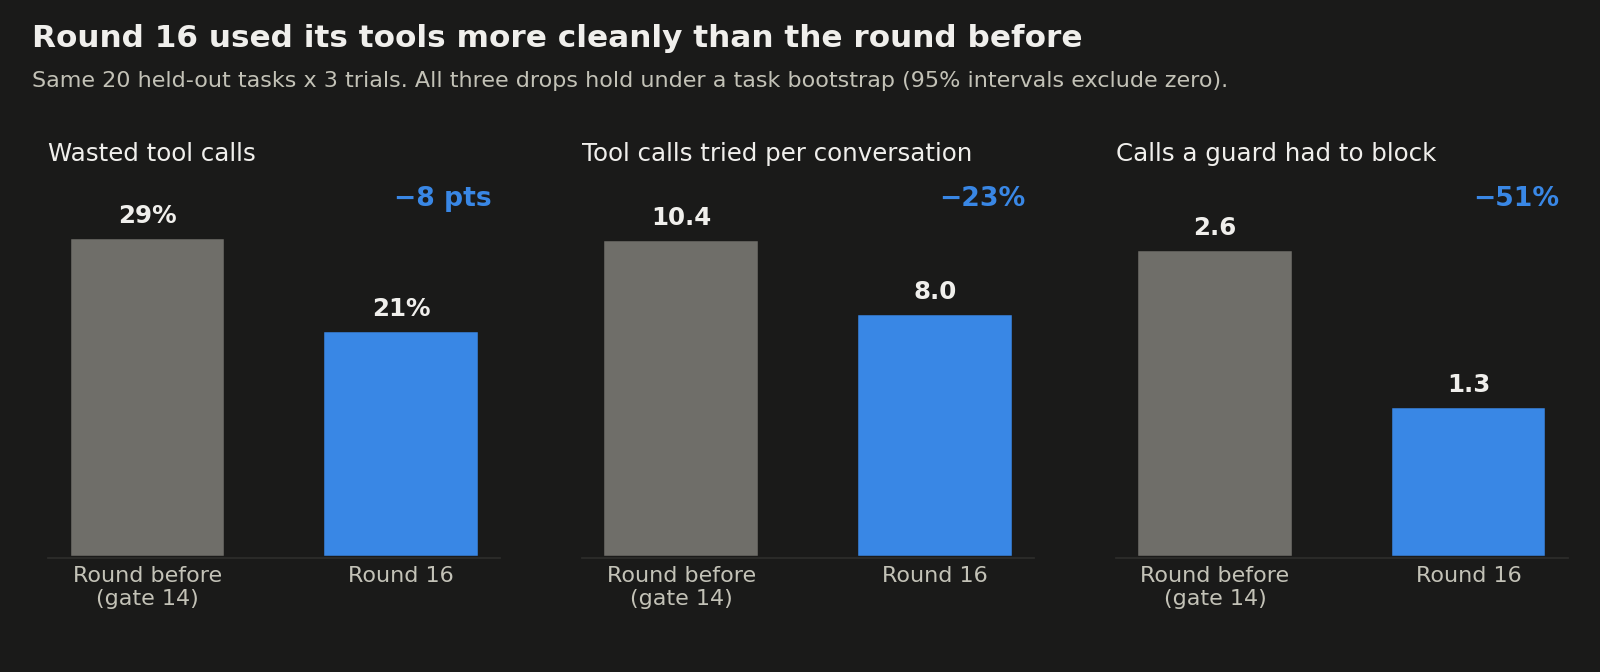
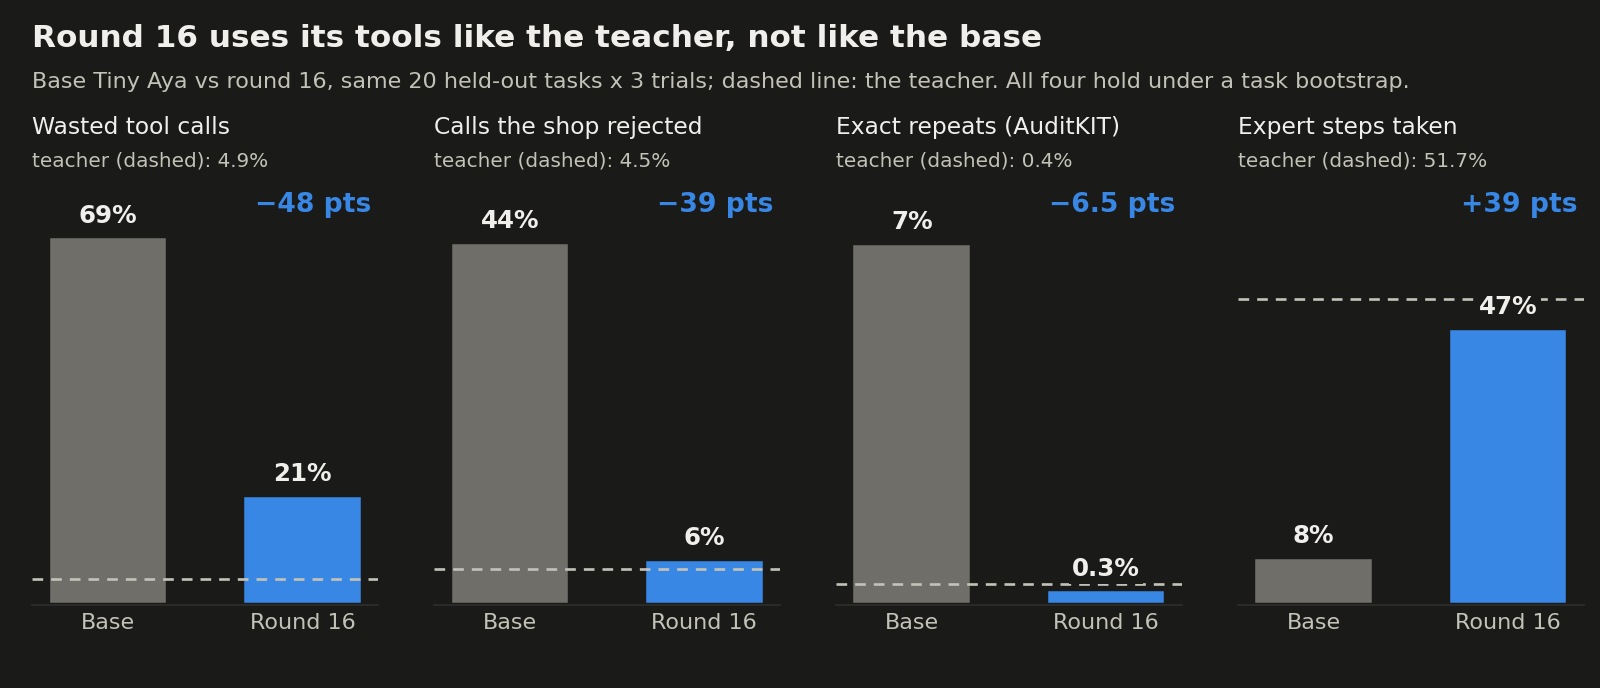
Round 16 efficiency: compare with the base, teacher as reference

diff --git a/docs/space/index.html b/docs/space/index.html
@@ -76,7 +76,7 @@ footer { margin-top: 64px; padding-top: 20px; border-top: 1px solid var(--line);
     <div class="card hero"><b>$0.015</b><span>per resolved ticket</span><small>2.5× cheaper than the teacher API</small></div>
     <div class="card"><b>3.35B</b><span>parameters, one 24 GB GPU</span><small>tickets solved 10% → 15%</small></div>
     <div class="card"><b>40 → 0</b><span>invented order ids</span><small>per 60 conversations</small></div>
-    <div class="card"><b>69% → 21%</b><span>wasted tool calls</span><small>round 16 alone: −8 pts, guard blocks halved</small></div>
+    <div class="card"><b>69% → 21%</b><span>wasted tool calls</span><small>base → round 16; teacher 5%</small></div>
     <div class="card"><b>0 people</b><span>from launch to promotion</span><small>2 h 24 min, $3.89</small></div>
     <div class="card"><b>8 / 8</b><span>gate checks passed</span><small>after 11 refusals</small></div>
   </div>
@@ -134,19 +134,20 @@ footer { margin-top: 64px; padding-top: 20px; border-top: 1px solid var(--line);
     <tr><td>BFCL, general tool calling</td><td>45</td><td><strong>73</strong></td></tr>
   </table></div>
 
-  <h2>Round 16's biggest jump: cleaner tool use</h2>
-  <p>Pass rates on 20 tasks are noisy, so we also measure how the agent works. tau2 stores the calls an expert makes for every task; we compare each conversation with that path and count the wasted calls: repeats with nothing changed in between, calls the shop rejected, and calls our guards had to block.</p>
+  <h2>Round 16's biggest jump: it uses tools like the teacher</h2>
+  <p>Pass rates on 20 tasks are noisy, so we also measure how the agent works. tau2 stores the calls an expert makes for every task; we compare each conversation with that path and count the wasted calls (repeats with nothing changed in between, calls the shop rejected, calls our guards had to block) and the expert's steps the agent also took.</p>
   <figure>
     <picture>
       <source media="(prefers-color-scheme: dark)" srcset="img/round16-jump-dark.png">
-      <img src="img/round16-jump-light.png" alt="Round 16 against the round before (gate 14): wasted tool calls 29% to 21%, tool calls tried per conversation 10.4 to 8.0, calls a guard had to block 2.6 to 1.3.">
+      <img src="img/round16-jump-light.png" alt="Base Tiny Aya vs round 16, teacher as reference: wasted tool calls 69% to 21% (teacher 4.9%), calls the shop rejected 44% to 6% (teacher 4.5%), exact repeats by AuditKIT 6.8% to 0.3% (teacher 0.4%), expert steps taken 8% to 47% (teacher 52%).">
     </picture>
   </figure>
   <ul>
-    <li><b>Against the round right before it</b>, on the same tasks: wasted calls −8 points, tool calls tried −23%, guard blocks halved. All three hold under a task bootstrap (95% intervals exclude zero).</li>
-    <li><b>The guards' lessons moved into the weights.</b> Round 16 trained on the teacher's fix for exactly the turns our guards had blocked, and now needs a guard half as often as the round before and a third as often as round 7.</li>
-    <li><b>AuditKIT agrees.</b> Its own <code>RedundantToolCalls</code> puts round 16's exact repeats at 0.3% of calls, level with the teacher (0.4%) and down from 6.8% for the base.</li>
-    <li><b>Not yet:</b> conversations are no shorter, about twice the teacher's length. That is the next target.</li>
+    <li><b>The base wastes most of what it does:</b> 69% of its tool calls, mostly calls the shop rejects, and it takes only 8% of the expert's steps. It looks frugal only because it gives up early.</li>
+    <li><b>Round 16 behaves like the teacher:</b> rejected calls 6% (teacher 4.5%), exact repeats 0.3% (teacher 0.4%), expert steps taken 47% (teacher 52%). All four changes from the base hold under a task bootstrap.</li>
+    <li><b>AuditKIT agrees:</b> the exact-repeat numbers are its own <code>RedundantToolCalls</code>, not our code.</li>
+    <li><b>Why:</b> round 16 trained on the teacher's fix for exactly the turns where the student went wrong, including every call our guards had blocked.</li>
+    <li><b>Not yet:</b> a fifth of its calls are still wasted (teacher 5%), and its conversations run about twice as long as the teacher's. That is the next target.</li>
   </ul>
   <p>Across every round, from the base model to round 16, wasted calls fell from 69% to 21% (the teacher wastes 5%):</p>
   <figure>

diff --git a/docs/make_charts.py b/docs/make_charts.py
@@ -36,7 +36,8 @@ def bars(ax, t, labels, values, highlight, fmt):
     for rect, value in zip(rects, values):
         ax.annotate(fmt(value), (rect.get_x() + rect.get_width() / 2, rect.get_height()),
                     xytext=(0, 4), textcoords="offset points", ha="center", va="bottom",
-                    fontsize=11, color=t["text"], fontweight="bold")
+                    fontsize=11, color=t["text"], fontweight="bold",
+                    bbox={"facecolor": t["surface"], "edgecolor": "none", "pad": 1.5})
 
 
 def title(fig, t, text, sub):
@@ -112,24 +113,28 @@ def gates(t):
 
 
 def round16_jump(t):
-    # scripts/trajectory_efficiency.py, gate 14 (round 13 + guards, the round before) vs gate 16, same 20 tasks x 3.
-    # 95% task-bootstrap intervals of the change: wasted -14 to -3 pts, attempts -4.1 to -0.8, blocks -1.9 to -0.7.
-    panels = [("Wasted tool calls", [29.3, 20.8], lambda v: f"{v:.0f}%", 35, "−8 pts"),
-              ("Tool calls tried per conversation", [10.4, 8.0], lambda v: f"{v:.1f}", 12.5, "−23%"),
-              ("Calls a guard had to block", [2.58, 1.27], lambda v: f"{v:.1f}", 3.2, "−51%")]
-    fig, axes = plt.subplots(1, 3, figsize=(10, 4.2), facecolor=t["surface"])
-    for ax, (label, values, fmt, top, change) in zip(axes, panels):
+    # scripts/trajectory_efficiency.py, gate 16: base vs round 16, same 20 held-out tasks x 3; teacher = its ceiling run.
+    # 95% task-bootstrap intervals of the change: wasted -56 to -38 pts, failed -55 to -27, repeated -11.9 to -2.0,
+    # expert steps taken +24 to +53.
+    panels = [("Wasted tool calls", [69.2, 20.8], 4.9, 80, "−48 pts"),
+              ("Calls the shop rejected", [44.3, 5.7], 4.5, 52, "−39 pts"),
+              ("Exact repeats (AuditKIT)", [6.8, 0.3], 0.4, 8, "−6.5 pts"),
+              ("Expert steps taken", [8.2, 46.8], 51.7, 72, "+39 pts")]
+    fig, axes = plt.subplots(1, 4, figsize=(10, 4.3), facecolor=t["surface"])
+    for ax, (label, values, teacher, top, change) in zip(axes, panels):
         style(ax, t)
-        bars(ax, t, ["Round before\n(gate 14)", "Round 16"], values, {1}, fmt)
+        bars(ax, t, ["Base", "Round 16"], values, {1}, lambda v: f"{v:.0f}%" if v >= 1 else f"{v:.1f}%")
+        ax.axhline(teacher, color=t["muted"], linewidth=1.2, linestyle=(0, (4, 3)))
         ax.set_ylim(0, top)
         ax.set_yticks([])
         ax.yaxis.grid(False)
-        ax.set_title(label, loc="left", fontsize=11, color=t["text"])
+        ax.set_title(label, loc="left", fontsize=10.5, color=t["text"], pad=20)
+        ax.text(0, 1.03, f"teacher (dashed): {teacher:g}%", transform=ax.transAxes, fontsize=9, color=t["muted"])
         ax.text(0.98, 0.97, change, transform=ax.transAxes, ha="right", va="top",
                 fontsize=12, fontweight="bold", color=t["accent"])
-    title(fig, t, "Round 16 used its tools more cleanly than the round before",
-          "Same 20 held-out tasks x 3 trials. All three drops hold under a task bootstrap (95% intervals exclude zero).")
-    fig.subplots_adjust(left=0.03, right=0.98, top=0.74, bottom=0.17, wspace=0.18)
+    title(fig, t, "Round 16 uses its tools like the teacher, not like the base",
+          "Base Tiny Aya vs round 16, same 20 held-out tasks x 3 trials; dashed line: the teacher. All four hold under a task bootstrap.")
+    fig.subplots_adjust(left=0.02, right=0.99, top=0.74, bottom=0.12, wspace=0.16)
     return fig
 
 

diff --git a/WRITEUP.md b/WRITEUP.md
@@ -13,7 +13,7 @@
 <td align="center"><h2>40 → 0</h2>invented order ids<br><sub>per 60 conversations</sub></td>
 </tr>
 <tr>
-<td align="center"><h2>69% → 21%</h2>wasted tool calls<br><sub>round 16 alone: −8 pts, guard blocks halved</sub></td>
+<td align="center"><h2>69% → 21%</h2>wasted tool calls<br><sub>base → round 16; teacher 5%</sub></td>
 <td align="center"><h2>0 people</h2>between launch and promotion<br><sub>2 h 24 min, $3.89</sub></td>
 <td align="center"><h2>8 / 8</h2>gate checks passed<br><sub>after 11 refusals</sub></td>
 </tr>
@@ -59,28 +59,30 @@ The customer simulator and judge is gpt-oss-120b, identical in every gate.
 | BFCL v3, general tool calling (no forgetting) | 45 | **73** |
 | Still failing: skipped a policy step / went in circles | 25 / 8 | 31 / 12 |
 
-### 4. Round 16's biggest jump: cleaner tool use
+### 4. Round 16's biggest jump: it uses tools like the teacher
 
-Pass rates on 20 tasks are noisy, so we also measure *how* the agent works. tau2 stores the calls an expert makes for every task; `scripts/trajectory_efficiency.py` compares each conversation with that path and counts **wasted calls**: repeats of an earlier call with nothing changed in between, calls the shop rejected, and calls our guards had to block before they ran.
+Pass rates on 20 tasks are noisy, so we also measure *how* the agent works. tau2 stores the calls an expert makes for every task; `scripts/trajectory_efficiency.py` compares each conversation with that path and counts **wasted calls** (repeats of an earlier call with nothing changed in between, calls the shop rejected, and calls our guards had to block) and **expert steps taken** (the expert's calls the agent also made, same tool and arguments).
 
 <picture>
   <source media="(prefers-color-scheme: dark)" srcset="docs/img/round16-jump-dark.png">
-  <img src="docs/img/round16-jump-light.png" alt="Round 16 against the round before (gate 14): wasted tool calls 29% to 21%, tool calls tried per conversation 10.4 to 8.0, calls a guard had to block 2.6 to 1.3." width="100%">
+  <img src="docs/img/round16-jump-light.png" alt="Base Tiny Aya vs round 16, teacher as reference: wasted tool calls 69% to 21% (teacher 4.9%), calls the shop rejected 44% to 6% (teacher 4.5%), exact repeats by AuditKIT 6.8% to 0.3% (teacher 0.4%), expert steps taken 8% to 47% (teacher 52%)." width="100%">
 </picture>
 
-| Same 20 held-out tasks × 3 | Base | Round before (gate 14) | **Round 16** | Teacher |
+| Same 20 held-out tasks × 3 | Base | **Round 16** | Teacher | Change, base → round 16 (95% interval) |
 |---|---|---|---|---|
-| Wasted tool calls | 69% | 29% | **21%** | 5% |
-| Tool calls tried per conversation | 4.0 | 10.4 | **8.0** | 4.5 |
-| Calls a guard had to block, per conversation | 0 | 2.6 | **1.3** | 0 |
-| Model calls per conversation (what serving costs) | 10.5 | 18.5 | **16.8** | 9.8 |
-| AuditKIT `RedundantToolCalls` (independent check) | 6.8% | 0.4% | **0.3%** | 0.4% |
+| Wasted tool calls | 69% | **21%** | 5% | −48 points (−56 to −38) |
+| Calls the shop rejected | 44% | **6%** | 4.5% | −39 points (−55 to −27) |
+| Exact repeats, AuditKIT `RedundantToolCalls` | 6.8% | **0.3%** | 0.4% | −6.5 points (−11.9 to −2.0) |
+| Expert steps taken | 8% | **47%** | 52% | +39 points (+24 to +53) |
+| Calls that were on the expert's path | 15% | **36%** | 52% | +22 points (+11 to +33) |
 
-- **Round 16 against the round right before it, all on the same tasks** (task bootstrap, 95% intervals): wasted calls −8 points (−14 to −3), tool calls tried −2.4 per conversation (−4.1 to −0.8), guard blocks halved (−1.9 to −0.7).
-- **Against the base: wasted calls 69% → 21%** (−48 points, 38 to 56). The base looks frugal only because it gives up: 44% of its calls fail.
-- **The guards' lessons moved into the weights.** Round 16 trained on the teacher's fix for exactly the turns our guards had blocked. It now needs a guard half as often as the round before, and a third as often as round 7 (4.3 blocks per conversation).
-- **AuditKIT agrees.** Its own `RedundantToolCalls` puts round 16's exact repeats at 0.3% of calls, level with the teacher (0.4%) and down from 6.8% for the base.
-- **What did not change:** conversations are no shorter (about 31 messages and 74K prompt tokens, twice the teacher's), and AuditKIT's `AgentLoopDetection` finds a loop in half the conversations, as before (teacher: 1 in 10). Round 16 uses its tools more cleanly; it still talks longer than an expert. That is the next target.
+Intervals are a task bootstrap (5,000 resamples of the 20 tasks).
+
+- **The base wastes most of what it does.** 69% of its tool calls are wasted, mostly because 44% of them fail, and it takes only 8% of the steps an expert would. It looks frugal only because it gives up early.
+- **Round 16 behaves like the teacher on three of the four measures.** Its rejected calls (6% vs 4.5%) and exact repeats (0.3% vs 0.4%) are at the teacher's level, and it takes nearly as many of the expert's steps (47% vs 52%).
+- **AuditKIT agrees.** The exact-repeat row is AuditKIT's own `RedundantToolCalls`, not our code, and it shows the same jump.
+- **Why:** round 16 trained on the teacher's fix for exactly the turns where the student had gone wrong, including every call our guards had blocked, so the guards' lessons moved into the weights.
+- **What is still behind the teacher:** a fifth of round 16's calls are still wasted (teacher 5%), its conversations run about twice as long (31 messages vs 20), and AuditKIT's `AgentLoopDetection` flags a loop in half of them (base: the same; teacher: 1 in 10). That is the next target.
 
 ### 5. Why a business would care
 
@@ -424,7 +426,7 @@ What it shows:
 - **The guards' lessons moved into the weights.** Round 7 needed a guard to block 4.3 calls per conversation; round 16, trained on the teacher's corrections of exactly those turns, needs 1.3. This is the self-healing loop working at the level of single turns, and it fits overflowing runs falling from 13 (round 13) to 4.
 - **Still twice the expert's calls and five times its context per solved task** (490K vs 100K prompt tokens). That is the gap to close next: fewer calls is cheaper, faster and leaves room in the 8K window.
 
-Round 16 against the round right before it, with AuditKIT's own trajectory metrics as a cross-check, is in section 4 at the top. The metric is evaluation only: it never feeds training or the gate. Making "wasted share must not rise" a ninth gate check is a one-line config change we did not make mid-hackathon, since the thresholds were frozen on 2026-11-11.
+Round 16 against the base, with AuditKIT's own trajectory metrics as a cross-check, is in section 4 at the top. The metric is evaluation only: it never feeds training or the gate. Making "wasted share must not rise" a ninth gate check is a one-line config change we did not make mid-hackathon, since the thresholds were frozen on 2026-11-11.
 
 **Sample (gate 13, task 9, trial 2; this run passed).** The customer asked to exchange a desk lamp. The adapter wrote the exchange before the customer had said yes:
 

diff --git a/docs/blog.md b/docs/blog.md
@@ -60,19 +60,15 @@ Round 16 against the base, 60 conversations each:
 | BFCL general tool calling | 45 | **73** |
 | Tickets resolved end to end | 10% | **15%** |
 
-## Round 16's biggest jump: cleaner tool use
+## Round 16's biggest jump: it uses tools like the teacher
 
-Pass rates on 20 tasks are noisy, so we added a metric that looks inside each conversation. tau2 stores the calls an expert agent makes for every task. We compare each conversation with that path and count the wasted calls: repeats of an earlier call with nothing changed in between, calls the shop rejected, and calls our runtime guards had to block before they ran.
+Pass rates on 20 tasks are noisy, so we added a metric that looks inside each conversation. tau2 stores the calls an expert agent makes for every task. We compare each conversation with that path and count the wasted calls (repeats of an earlier call with nothing changed in between, calls the shop rejected, and calls our runtime guards had to block) and the expert's steps the agent also took.
 
-![Round 16 against the round before](img/round16-jump-light.png)
+![Base vs round 16, with the teacher as reference](img/round16-jump-light.png)
 
-Against the round right before it, on the same tasks, round 16 cut wasted calls by 8 points (29% → 21%), tried 23% fewer tool calls per conversation, and needed a guard half as often. All three hold under a task bootstrap. The reason is the most satisfying result of the project: round 16 trained on the teacher's fix for exactly the turns our guards had blocked, so the guards' lessons moved into the weights.
+The base wastes 69% of its tool calls, mostly calls the shop rejects, and takes only 8% of the steps an expert would; it looks frugal only because it gives up early. Round 16 wastes 21%, and on three measures it is at the teacher's level: rejected calls 6% (teacher 4.5%), exact repeats 0.3% (teacher 0.4%), expert steps taken 47% (teacher 52%). All four changes hold under a task bootstrap, and the exact-repeat numbers come from AuditKIT's own `RedundantToolCalls`, not our code.
 
-We checked our metric against AuditKIT's own `RedundantToolCalls`: round 16 repeats a call in 0.3% of calls, level with the teacher (0.4%) and down from 6.8% for the base.
-
-![Wasted tool calls by round](img/wasted-calls-light.png)
-
-Over the whole project, wasted calls fell from 69% (base) to 21%; the teacher wastes 5%. The base looks frugal only because it gives up early. What round 16 did not fix: its conversations are still about twice as long as the teacher's. That is the next target.
+The reason is the most satisfying result of the project: round 16 trained on the teacher's fix for exactly the turns where the student went wrong, including every call our guards had blocked, so the guards' lessons moved into the weights. What it did not fix: a fifth of its calls are still wasted (teacher 5%), and its conversations run about twice as long as the teacher's. That is the next target.
 
 ## Why it matters for a business
 
